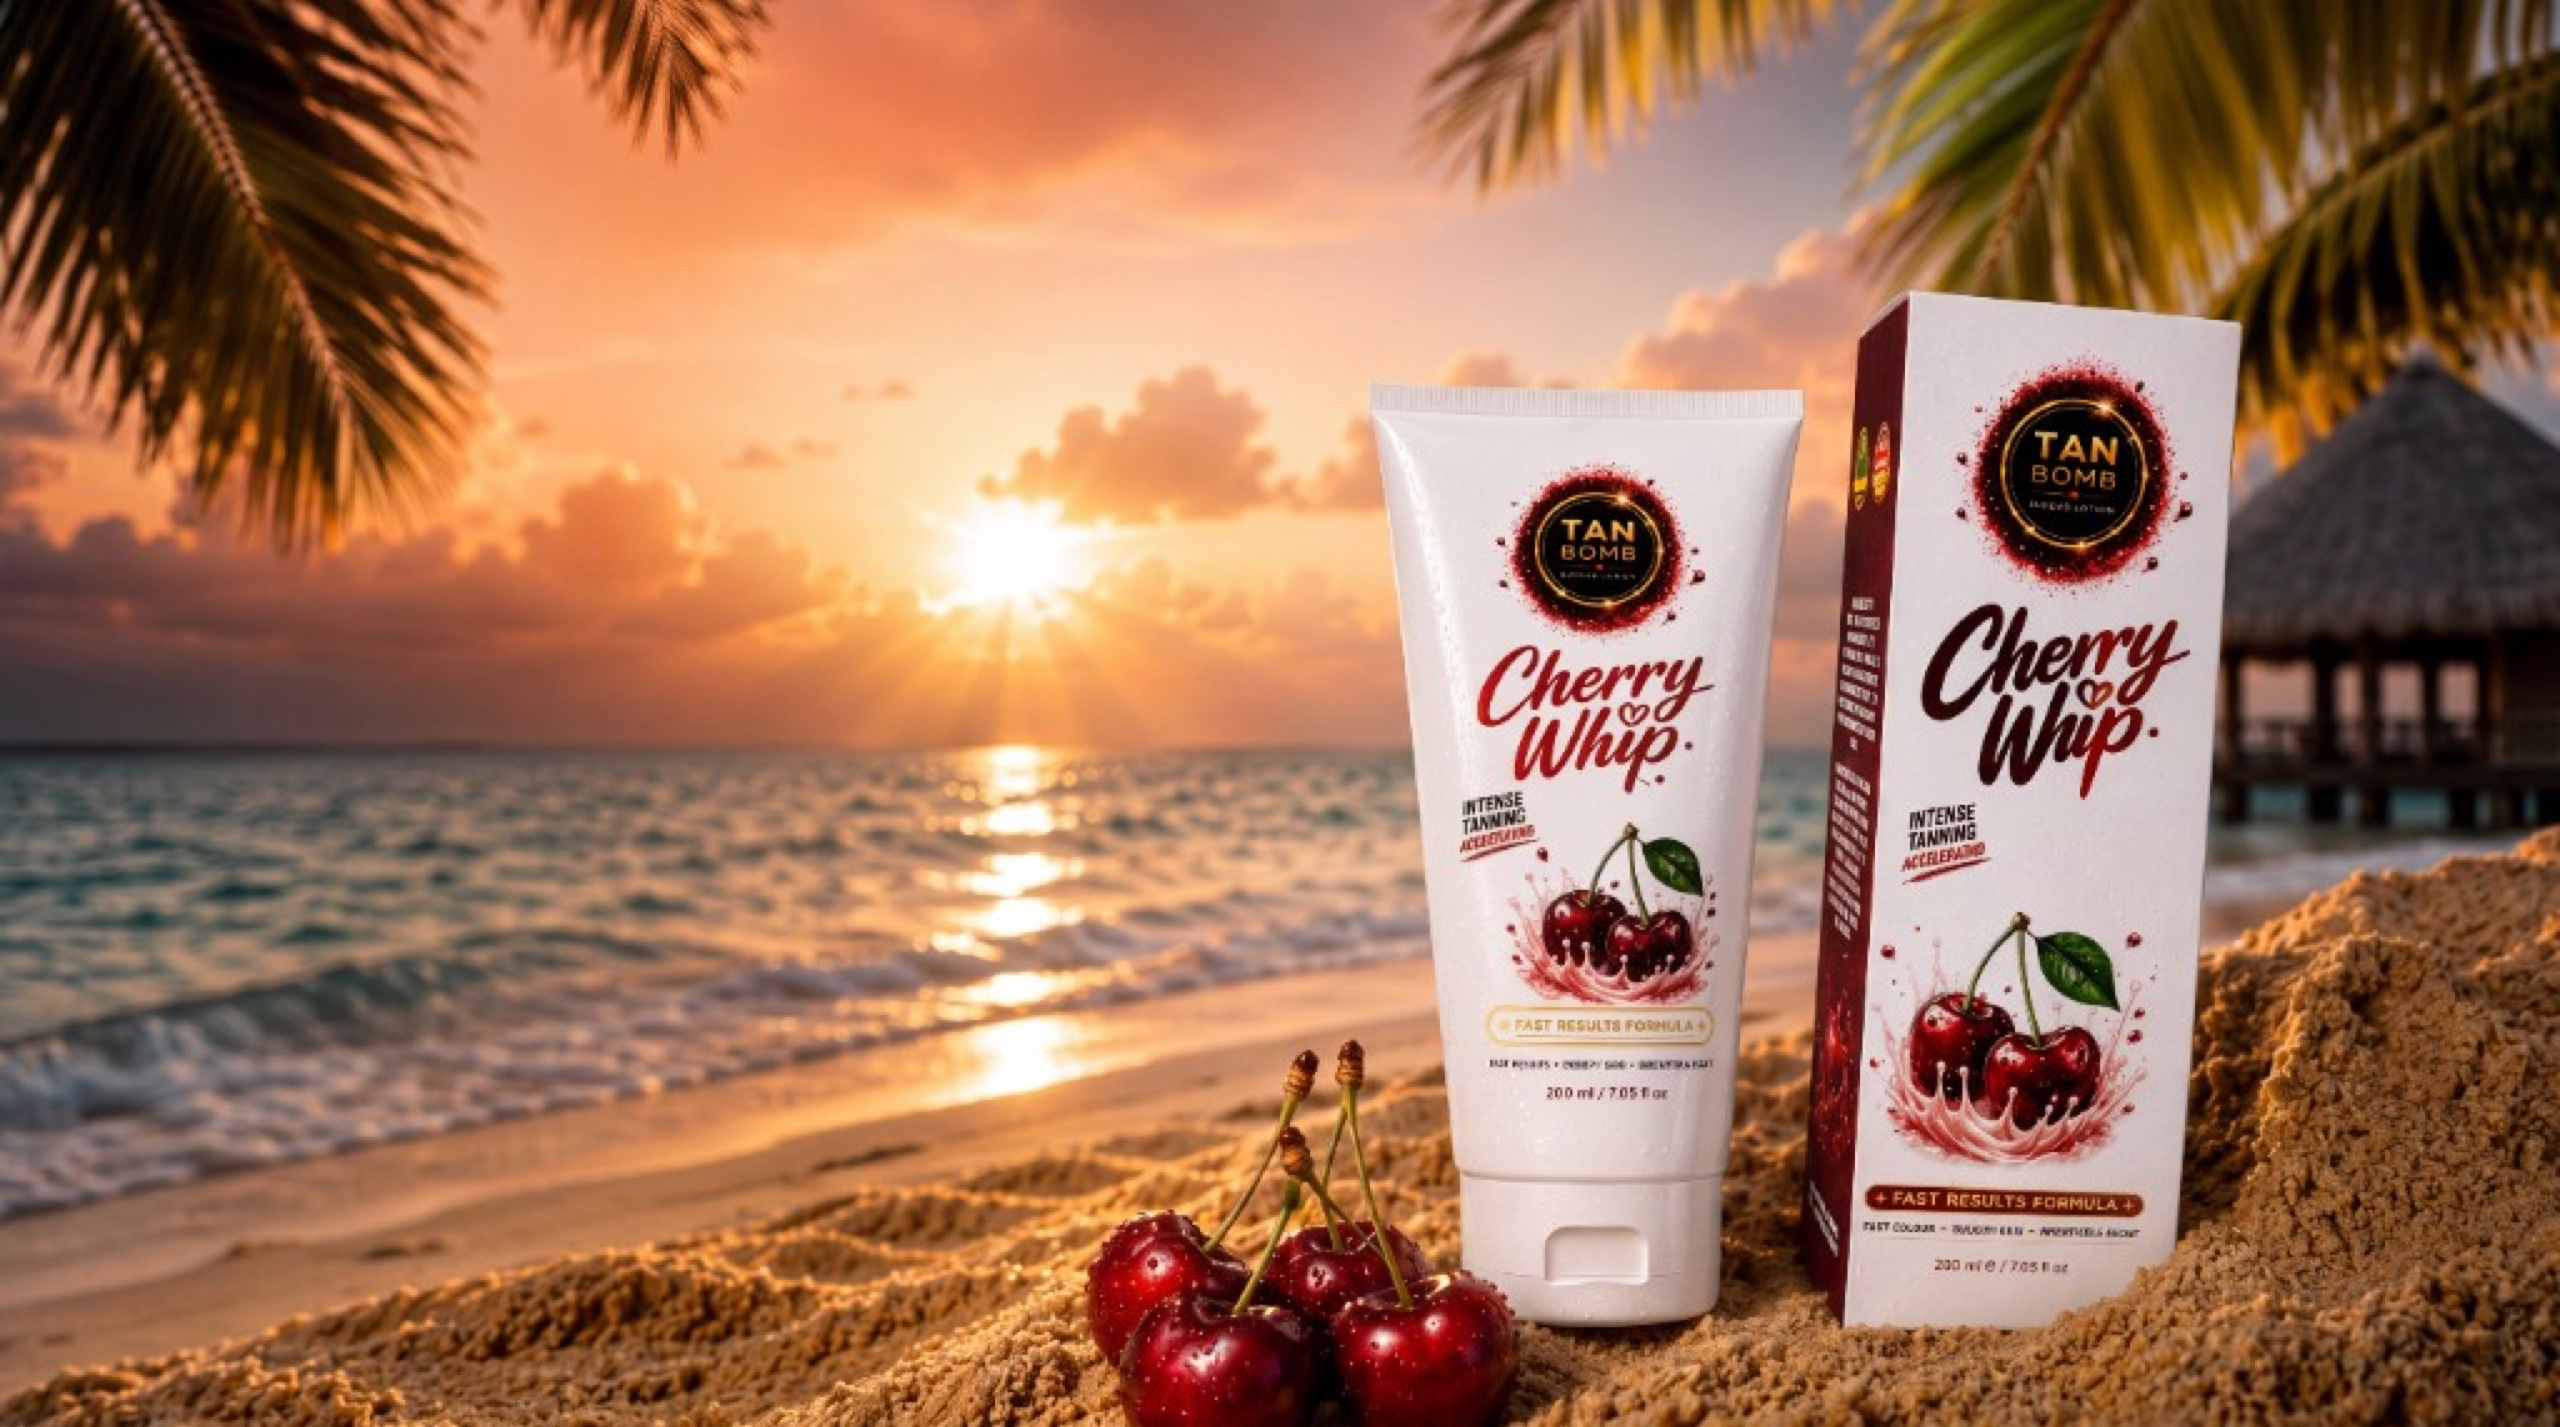
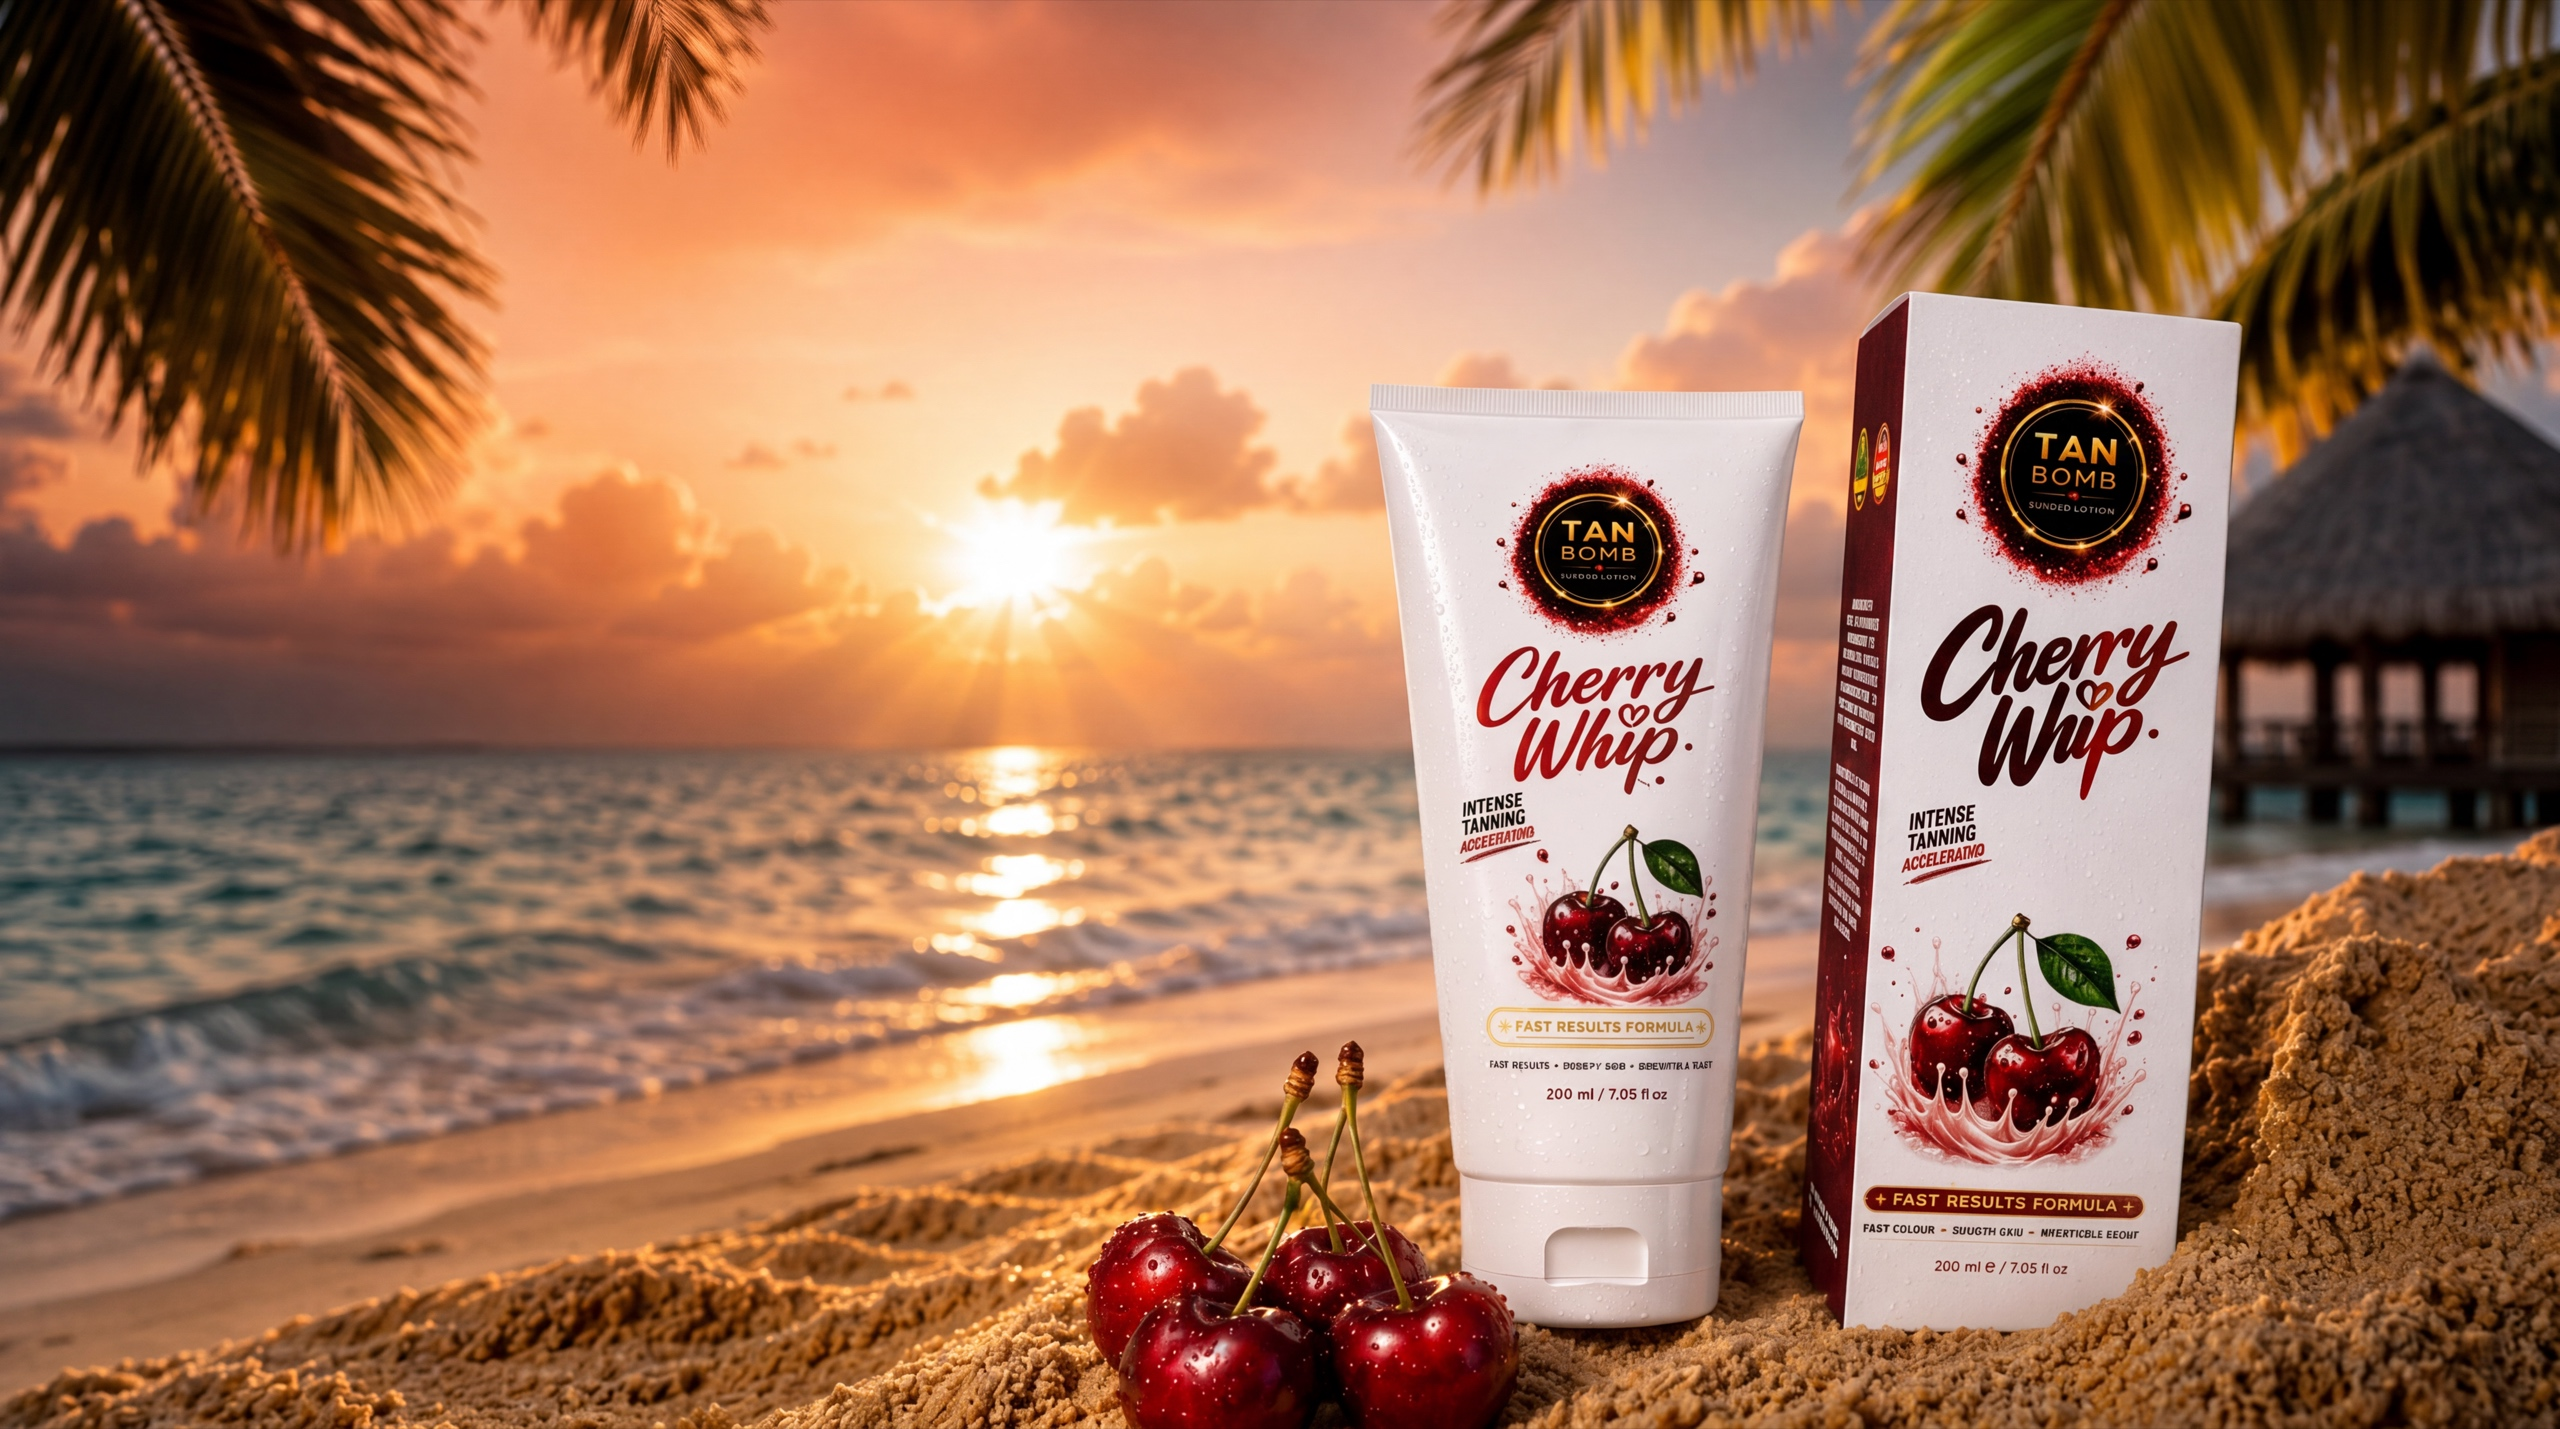
Re-export desktop hero from native 5504px source for max sharpness.
Adds 3840 and 5504 srcset variants from the full Firefly export so retina and 4K screens no longer upscale soft 1920px JPEGs.

diff --git a/preview/index.html b/preview/index.html
@@ -13,6 +13,20 @@
 
   <link rel="stylesheet" href="../assets/theme.css">
 
+  <link
+    rel="preload"
+    as="image"
+    imagesrcset="
+      ../assets/hero-desktop.jpg 1920w,
+      ../assets/hero-desktop-2560.jpg 2560w,
+      ../assets/hero-desktop-3840.jpg 3840w,
+      ../assets/hero-desktop-5504.jpg 5504w
+    "
+    imagesizes="100vw"
+    href="../assets/hero-desktop-3840.jpg"
+    media="(min-width: 1024px)"
+  >
+
   <script>
     window.TanBomb = {
       moneyFormat: '£{{amount}}',
@@ -148,15 +162,17 @@
     <section id="hero" class="section section--hero section--hero--immersive section--hero--light section--hero--has-desktop-image fade-in texture-marble">
       <div class="section--hero__media section--hero__media--desktop" aria-hidden="true">
         <img
-          src="../assets/hero-desktop.jpg"
+          src="../assets/hero-desktop-3840.jpg"
           srcset="
             ../assets/hero-desktop.jpg 1920w,
-            ../assets/hero-desktop-2560.jpg 2560w
+            ../assets/hero-desktop-2560.jpg 2560w,
+            ../assets/hero-desktop-3840.jpg 3840w,
+            ../assets/hero-desktop-5504.jpg 5504w
           "
           sizes="100vw"
           alt="Cherry Whip tanning accelerator on a tropical beach at sunset"
-          width="1920"
-          height="1070"
+          width="3840"
+          height="2143"
           loading="eager"
           fetchpriority="high"
           decoding="async"